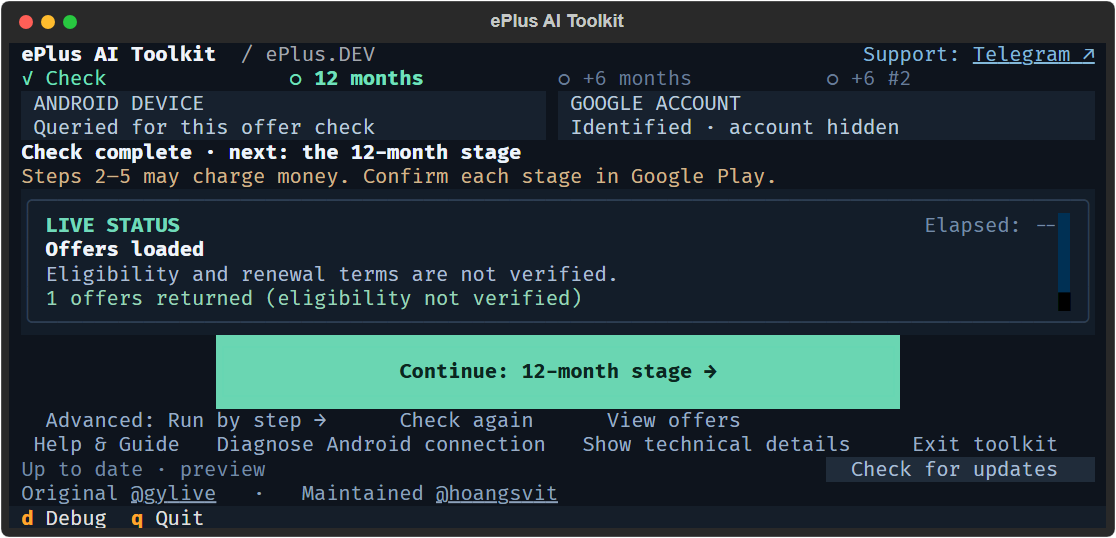
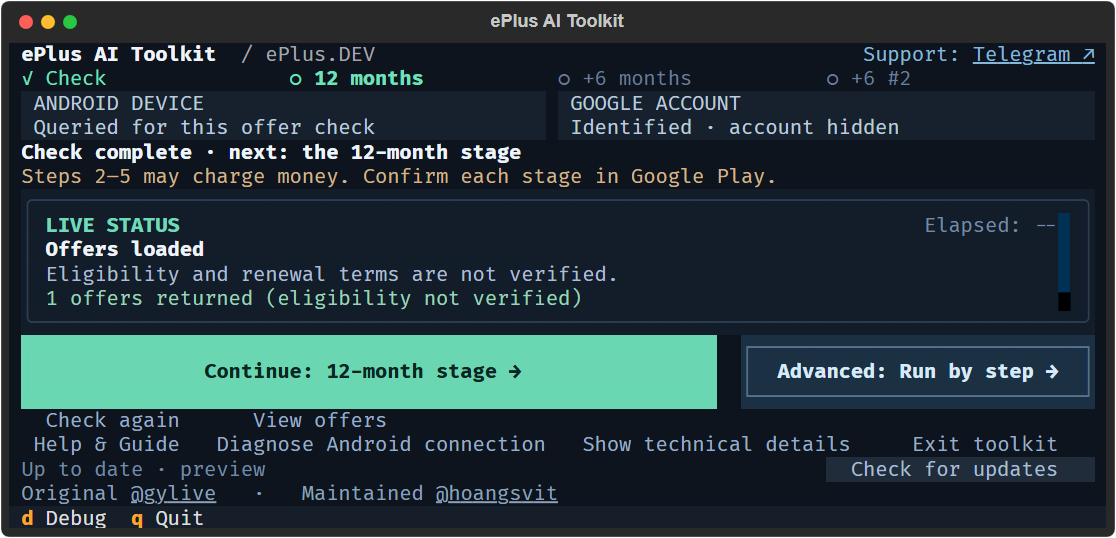
fix(tui): make advanced workflow a prominent action

Changed region(s): [[0.0, 0.6245, 1.0, 0.803]]

diff --git a/tui.py b/tui.py
@@ -155,8 +155,9 @@ class GoogleAITUI(App[None]):
     #debug_log { display: none; height: 8; min-height: 3; margin-top: 1; border: round #253345; background: #0b121b; }
     #manual { display: none; width: 100%; height: 3; }
     #hint { display: none; }
-    #main_actions { height: 3; margin-top: 1; align-horizontal: center; }
-    #main_actions Button { width: 1fr; max-width: 56; height: 3; }
+    #action_bar { height: 3; margin-top: 1; }
+    #main_actions { width: 2fr; height: 3; }
+    #main_actions Button { width: 1fr; height: 3; }
     #quickstart, #continue_initial, #next { background: #64d6b0; color: #0b2620; text-style: bold; }
     #quickstart:disabled, #continue_initial:disabled, #next:disabled { background: #233d37; color: #80958e; }
     #continue_initial, #next, #stop, #finish { display: none; }
@@ -165,7 +166,12 @@ class GoogleAITUI(App[None]):
     #secondary_actions { height: 1; margin-top: 1; }
     #secondary_actions Button { width: auto; height: 1; min-height: 1; background: transparent; color: #9aadc5; }
     #recheck, #offers_toggle { display: none; margin-right: 2; }
-    #advanced_toggle { margin-right: 2; }
+    #advanced_toggle {
+        width: 1fr; min-width: 28; height: 3; margin-left: 2;
+        border: solid #55738e; background: #1b3043; color: #d8e9f7; text-style: bold;
+    }
+    #advanced_toggle:hover { background: #29465e; border: solid #85b5d9; }
+    #advanced_toggle:disabled { background: #18222e; border: solid #2d3e52; color: #65758a; }
     #workflow_actions { display: none; height: 1fr; min-height: 0; overflow-y: auto; scrollbar-size: 1 1; }
     #advanced_title { height: 1; text-style: bold; color: #edf4fc; margin-bottom: 1; }
     #form_row { height: auto; }
@@ -182,6 +188,7 @@ class GoogleAITUI(App[None]):
     Screen.advanced-view #workflow_actions, Screen.advanced-view #advanced_run_actions { display: block; }
     Screen.advanced-view #welcome_panel, Screen.advanced-view #status_panel,
     Screen.advanced-view #main_actions, Screen.advanced-view #recheck, Screen.advanced-view #offers_toggle { display: none; }
+    Screen.advanced-view #advanced_toggle { width: 100%; margin-left: 0; }
     #toolbar { height: 1; margin-top: 1; layout: grid; grid-size: 4; grid-columns: 15 29 26 1fr; grid-rows: 1; }
     #toolbar Button { width: 100%; height: 1; min-height: 1; border: none; padding: 0; background: transparent; color: #9aadc5; }
     #toolbar Button:hover, #toolbar Button:focus { background: #243247; color: #e3edf8; }
@@ -202,14 +209,20 @@ class GoogleAITUI(App[None]):
     Screen.compact #welcome_panel { margin-bottom: 0; }
     Screen.compact #state { margin-top: 0; }
     Screen.compact #toolbar, Screen.compact #update_bar, Screen.compact #credit,
-    Screen.compact #main_actions, Screen.compact #secondary_actions { margin: 0; }
+    Screen.compact #action_bar, Screen.compact #secondary_actions { margin: 0; }
+    Screen.narrow #action_bar { height: auto; layout: vertical; }
+    Screen.narrow #main_actions { width: 100%; height: 2; }
+    Screen.narrow #main_actions Button { height: 2; }
+    Screen.narrow #advanced_toggle { width: 100%; min-width: 0; height: 2; min-height: 1; margin: 0; border: none; }
+    Screen.narrow #action_bar Button:focus { outline: none; text-style: bold underline; }
     Screen.tiny #toolbar { grid-size: 2; grid-columns: 1fr 1fr; grid-rows: 1 1; height: 2; }
     Screen.tiny #support_label, Screen.tiny #credit { display: none; }
     Screen.tiny #form_row { layout: vertical; }
     Screen.tiny #step_field { margin: 1 0 0 0; }
     Screen.micro #controls { display: none; }
     Screen.micro #main_actions { height: auto; layout: vertical; }
-    Screen.micro #main_actions Button { height: 1; min-height: 1; width: 100%; max-width: 100%; margin: 0; }
+    Screen.micro #main_actions Button { height: 1; min-height: 1; width: 100%; margin: 0; }
+    Screen.micro #advanced_toggle { height: 1; }
     """
 
     def __init__(self, *, repo: Path, selected_step: int = 1,
@@ -303,14 +316,15 @@ class GoogleAITUI(App[None]):
                         yield Button("Completed action on Android", id="manual", disabled=True)
                         yield RichLog(id="debug_log", wrap=True, highlight=False, markup=False)
                         yield Static("", id="hint")
-                    with Horizontal(id="main_actions"):
-                        yield Button("Check Device & Offers", id="quickstart", variant="success")
-                        yield Button("Continue: 12-month stage →", id="continue_initial", disabled=True)
-                        yield Button("Finish here", id="finish", disabled=True)
-                        yield Button("Verified in Google Play → Next", id="next", disabled=True)
-                        yield Button("Stop after current step", id="stop", disabled=True)
+                    with Horizontal(id="action_bar"):
+                        with Horizontal(id="main_actions"):
+                            yield Button("Check Device & Offers", id="quickstart", variant="success")
+                            yield Button("Continue: 12-month stage →", id="continue_initial", disabled=True)
+                            yield Button("Finish here", id="finish", disabled=True)
+                            yield Button("Verified in Google Play → Next", id="next", disabled=True)
+                            yield Button("Stop after current step", id="stop", disabled=True)
+                        yield Button("Advanced: Run by step →", id="advanced_toggle")
             with Horizontal(id="secondary_actions"):
-                yield Button("Advanced: Run by step →", id="advanced_toggle")
                 yield Button("Check again", id="recheck")
                 yield Button("View offers", id="offers_toggle")
             with Horizontal(id="toolbar"):
@@ -353,8 +367,7 @@ class GoogleAITUI(App[None]):
             else ("Hide technical details" if self.debug_visible else "Show technical details")
         )
         self.query_one("#advanced_toggle", Button).label = (
-            ("← Guided flow" if self.advanced_visible else "Advanced →") if self.size.width < 62
-            else ("← Back to guided flow" if self.advanced_visible else "Advanced: Run by step →")
+            "← Back to guided flow" if self.advanced_visible else "Advanced: Run by step →"
         )
         self.query_one("#offers_toggle", Button).label = (
             "Hide offers" if self._offers_visible else ("Offers" if self.size.width < 62 else "View offers")

diff --git a/tests/test_tui_layout.py b/tests/test_tui_layout.py
@@ -1,5 +1,6 @@
 """Offline checks for the redesigned dashboard's visible controls and content."""
 from pathlib import Path
+from html import unescape
 import tempfile
 import unittest
 from unittest.mock import patch
@@ -30,9 +31,49 @@ class DashboardLayoutTests(unittest.IsolatedAsyncioTestCase):
                             self.assertLessEqual(region.bottom, size[1] - 1, selector)
                         welcome = app.query_one("#welcome_panel")
                         self.assertEqual(welcome.max_scroll_y, 0, "Default warning must not need scrolling")
+                        primary = app.query_one("#quickstart")
+                        advanced = app.query_one("#advanced_toggle")
+                        self.assertEqual(str(advanced.label), "Advanced: Run by step →")
+                        self.assertLessEqual(len(str(advanced.label)), advanced.content_region.width)
+                        if size[0] >= 90:
+                            self.assertEqual(primary.region.y, advanced.region.y)
+                            self.assertEqual(primary.region.height, advanced.region.height)
+                            self.assertGreaterEqual(advanced.region.x, primary.region.right)
+                        else:
+                            self.assertGreaterEqual(advanced.region.y, primary.region.bottom)
+                            self.assertEqual(primary.region.width, advanced.region.width)
+                        advanced.focus()
+                        await pilot.pause()
+                        self.assertIs(app.focused, advanced)
+                        for button in (primary, advanced):
+                            button.focus()
+                            await pilot.pause()
+                            rendered = unescape(app.export_screenshot()).replace("\xa0", " ")
+                            self.assertIn(str(button.label), rendered, "Focused action text must remain visible")
                         self.assertFalse(app.ENABLE_COMMAND_PALETTE)
                         self.assertFalse(app.busy)
                         stage.assert_not_called()
+
+    async def test_prominent_advanced_control_is_locked_during_active_work(self):
+        from tui import GoogleAITUI
+        with tempfile.TemporaryDirectory() as directory:
+            app = GoogleAITUI(repo=Path(directory))
+            with patch.object(GoogleAITUI, "run_stage"):
+                async with app.run_test(size=(90, 20)) as pilot:
+                    app._start(1, False)
+                    await pilot.pause()
+                    self.assertTrue(app.query_one("#advanced_toggle").disabled)
+                    app.advanced_pressed()
+                    self.assertFalse(app.advanced_visible)
+                    app._finished(1, Outcome("listed", "Offers loaded", "Review account."), None)
+                    await pilot.click("#advanced_toggle")
+                    await pilot.pause()
+                    self.assertTrue(app.advanced_visible)
+                    back = app.query_one("#advanced_toggle")
+                    self.assertGreater(back.region.height, 0)
+                    self.assertLessEqual(back.region.bottom, 19)
+                    await pilot.click("#advanced_toggle")
+                    self.assertFalse(app.advanced_visible)
 
     async def test_toolbar_labels_fit_and_remain_accessible_by_keyboard(self):
         from tui import GoogleAITUI

diff --git a/docs/USAGE.md b/docs/USAGE.md
@@ -6,7 +6,7 @@
 
 The dashboard follows a checkout-style guided path: start with **Check Device & Offers** (Step 1). A fresh successful listing, an identified Play account and the matching initial offer with a zero-priced first phase reveal **Continue: 12-month stage →**. This only opens the separate Step 2 approval; the engine rechecks account, offer and payment terms before checkout. It is not proof of eligibility, free months or activation. After a reviewable checkout attempt, verify the actual result in Google Play before **Verified in Google Play → Next**, or choose **Finish here**. Step 5 is optional. No stage starts automatically.
 
-**Advanced: Run by step** opens a separate configuration view with its own visible Run button; **← Back to guided flow** returns to the wizard. **From selected step** only offers Steps 2–5. **All: Steps 2–5** shows the planned route from Step 2 and hides the step selector. The **R** shortcut works only in this view. Offer Explorer is available through **View offers** after a successful listing. Help opens separately and preserves the current result.
+**Advanced: Run by step** is a full button beside the guided action, stacked below it in narrower terminals. It opens a separate configuration view with its own visible Run button; **← Back to guided flow** returns to the wizard. **From selected step** only offers Steps 2–5. **All: Steps 2–5** shows the planned route from Step 2 and hides the step selector. The **R** shortcut works only in this view. Offer Explorer is available through **View offers** after a successful listing. Help opens separately and preserves the current result.
 
 [Standard dashboard preview](../assets/images/dashboard.png) · [Compact 90×20 preview](../assets/images/dashboard-compact.png). Both previews show a simulated successful inspection; no billing operation was run.
 
